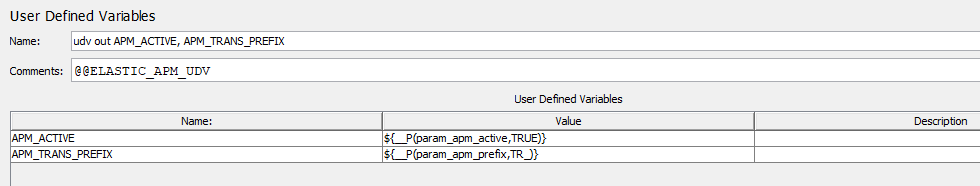
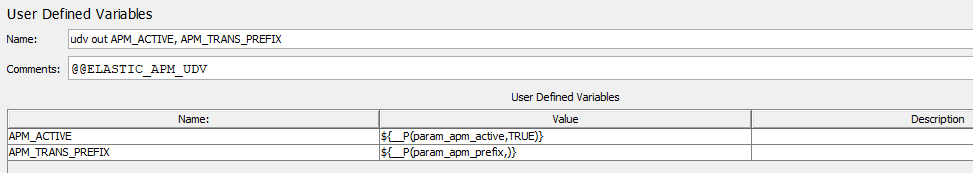
Verson 1.4, Default property "param_apm_prefix" is now empty by default because you can't remove it with empty value but easily add no empty value e.g: -Jparam_apm_prefix=TR_

Changed region(s): [[0.0, 0.4913, 1.0, 0.9538], [0.0, 0.1734, 1.0, 0.4624], [0.0, 0.0289, 0.185, 0.1156]]

diff --git a/README.md b/README.md
@@ -104,10 +104,10 @@ This variables could be changed with JMeter properties at launch time, this prop
 
 elastic APM properties are :
 
-| property name    | comment                                                                                          |
-|------------------|--------------------------------------------------------------------------------------------------|
-| param_apm_active | default : TRUE , TRUE OR FALSE, if TRUE then api is call                                         |
-| param_apm_prefix | default : TR_ , Prefix of the transaction name, could be empty, SC01_LOGIN will be TR_SC01_LOGIN |
+| property name    | comment                                                                                                                             |
+|------------------|-------------------------------------------------------------------------------------------------------------------------------------|
+| param_apm_active | default : TRUE , TRUE OR FALSE, if TRUE then api is call                                                                            |
+| param_apm_prefix | default : Empty , Prefix of the transaction name, could be empty, if param_apm_prefix = "TR_" then SC01_LOGIN will be TR_SC01_LOGIN |
 
 E.g : jmeter -Jparam_apm_prefix=TRANS_ , SC01_LOGIN will be TRANS_SC01_LOGIN in Kibana transactions list
 
@@ -239,6 +239,7 @@ A pom.xml example, the elastic_apm_version is set to "1.37.0" for the ELASTIC AP
                     <testFilesIncluded>
                         <jMeterTestFile>script1_add.jmx</jMeterTestFile>
                     </testFilesIncluded>
+                    <logsDirectory>${project.build.directory}/jmeter/results</logsDirectory>
                     <generateReports>false</generateReports>
                     <testResultsTimestamp>false</testResultsTimestamp>
                     <resultsFileFormat>csv</resultsFileFormat>
@@ -254,7 +255,7 @@ The maven groupId, artifactId and version, this plugin is in the **Maven Central
 ```xml
 <groupId>io.github.vdaburon</groupId>
 <artifactId>jmeter-elastic-apm</artifactId>
-<version>1.3</version>
+<version>1.4</version>
 ```
 
 ## Advanced usage
@@ -302,10 +303,12 @@ ElasticApmJMeterManager.modifyAddSamplerForElasticApm(sFileIn, sFileOut, Elastic
 </pre>
 
 ## Version
-Version 1.3 change method name ELK to ELASTIC et file name tp extract_udv_elastic_under_testplan.jmx
+Version 1.4 2025-01-14, Default property "param_apm_prefix" is now empty by default because you can't remove it with empty value but easily add no empty value e.g: -Jparam_apm_prefix=TR_
 
-Version 1.2 change globally ELK to ELASTIC
+Version 1.3 2024-02-01, Change method name ELK to ELASTIC et file name tp extract_udv_elastic_under_testplan.jmx
 
-Version 1.1 correct the class name in the uber jar and correct REMOVE result
+Version 1.2 2024-01-30, Change globally ELK to ELASTIC
 
-Version 1.0 first version of this tool.
+Version 1.1, 2024-01-10, Correct the class name in the uber jar and correct REMOVE result
+
+Version 1.0, first version of this tool.
